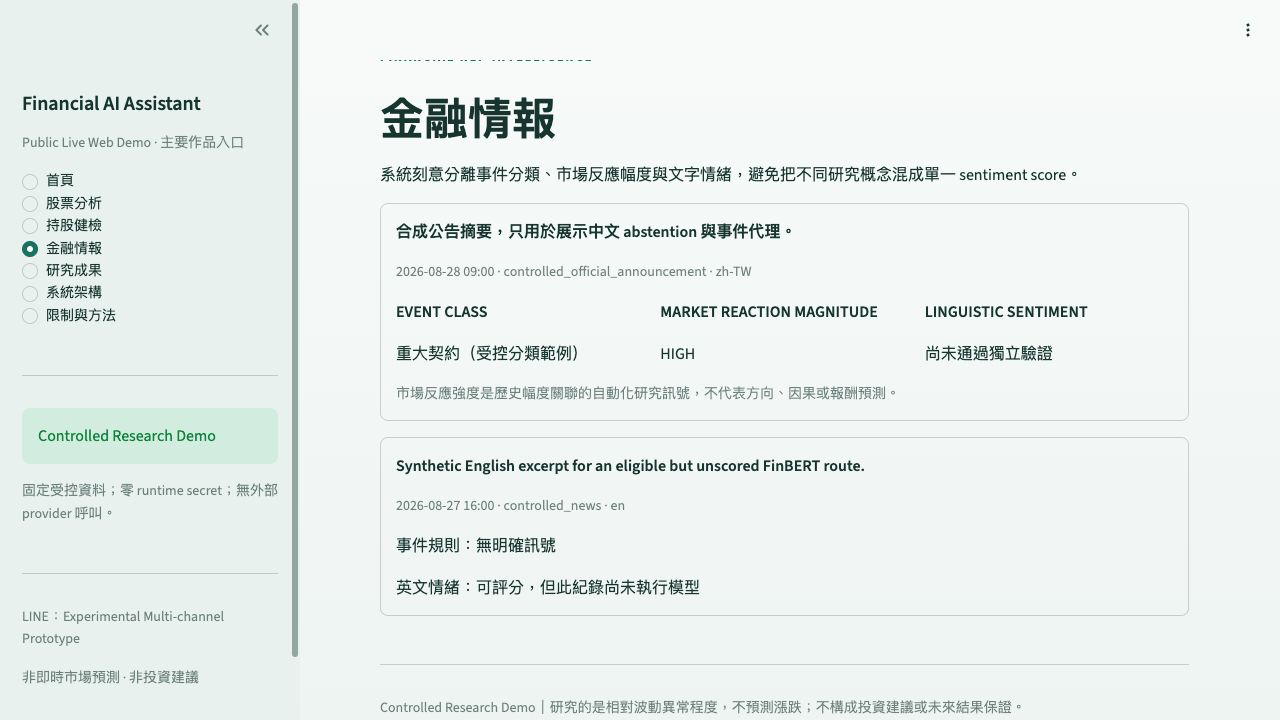
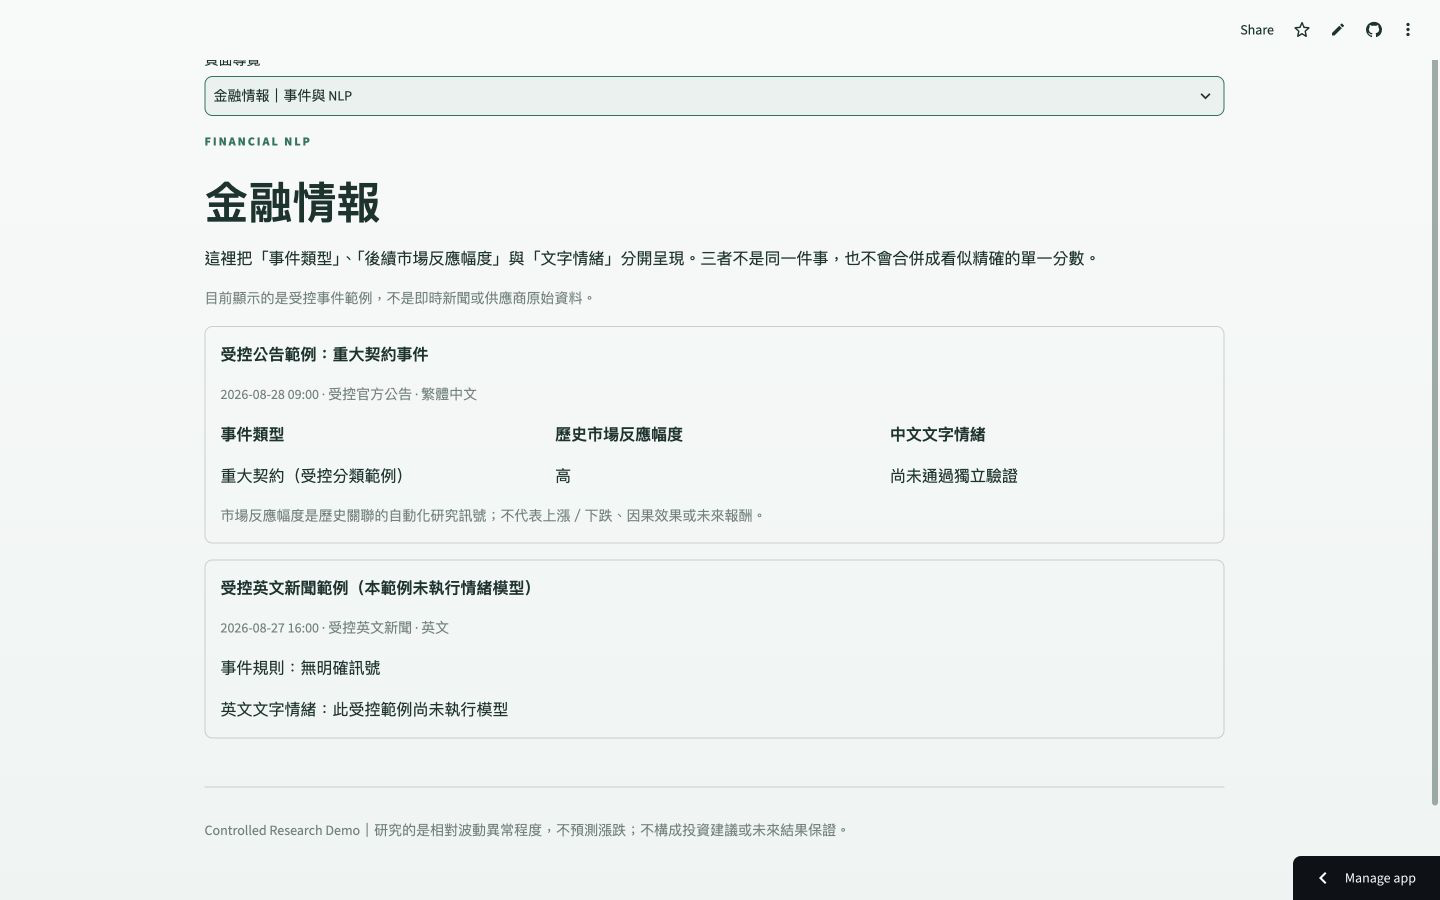
Document web demo production verification

diff --git a/docs/live_demo_blind_product_audit.md b/docs/live_demo_blind_product_audit.md
@@ -328,3 +328,75 @@ Remaining P2 polish intentionally deferred:
 - optional shareable deep links for individual pages;
 - optional additional public-safe controlled fixtures, but only if derived without fabricating
   ticker-specific evidence.
+
+## Production deployment verification
+
+Verification date: 2026-08-31
+
+Production URL: <https://mieuxwei-f6rbk4pvtvxs3rsh3k2zmn.streamlit.app/>
+
+Deployed revision: `313b4c7cd07e9347086cae3793a087182020fe2e`
+
+The revision was confirmed on the GitHub `main` branch and detected by Streamlit Community Cloud.
+The existing process initially continued serving the previous interface, so the app was explicitly
+rebooted through the Streamlit management panel after user approval. A fresh browser session then
+loaded the revised Web-first interface.
+
+### First 30-second test — PRODUCTION AFTER
+
+| Question | Result | Production evidence |
+|---|---|---|
+| 這是什麼？ | PASS | Product name and Taiwan-equity research-assistant description are above the fold |
+| 解決什麼問題？ | PASS | Relative volatility-surprise forecasting and financial-event intelligence are stated directly |
+| 最核心 AI 功能？ | PASS | Plain-language volatility ranking is identified as the research core |
+| 可以操作什麼？ | PASS | Stock analysis, Demo portfolio health and financial intelligence are named immediately |
+| 第一個應按哪裡？ | PASS | “開始股票分析” is the primary CTA |
+| 不是投資建議？ | PASS | The first screen states non-live, no-direction and non-investment-advice boundaries |
+| 是研究作品而非交易產品？ | PASS | Controlled Research Demo status is visible without opening details |
+
+### Functional smoke — production
+
+| Surface/interaction | Result |
+|---|---|
+| Landing, main-content navigation and all three CTAs | PASS |
+| 2330 controlled stock analysis | PASS |
+| 0050 unsupported selection fails closed without borrowed or fabricated output | PASS |
+| Score, percentile and communication-band explanation | PASS |
+| Portfolio empty state | PASS |
+| Load two-holding example | PASS |
+| Add a holding through the form | PASS |
+| Update holding shares and average cost | PASS |
+| Delete and clear holdings | PASS |
+| Financial intelligence concept separation | PASS |
+| Research metrics, model comparison and ranking visual | PASS |
+| Architecture, experimental LINE path and forward-validation path | PASS |
+| Current-market blocker and Chinese sentiment limitation | PASS |
+| Sanitized UI with no browser console error/warning | PASS |
+
+### Responsive and operational checks
+
+- Desktop viewport (`1440 × 900`): PASS.
+- Narrow/mobile viewport (`390 × 844`): all seven pages remained usable with no horizontal
+  overflow, hidden sidebar dependency or traceback.
+- A bounded reboot/cold-start check returned the revised app in approximately 20 seconds,
+  including dependency preparation and a fresh browser connection.
+- Public request handling remained fixture-only. No Yahoo, FinMind, TWMD, Gemini, Perplexity,
+  OpenAI, GDELT, LINE or Google Sheets provider request was introduced.
+- Current-market F7 inference remains disabled; the documented readiness evidence remains `6/9`
+  serving gates and `5/23` exact features.
+- Chinese linguistic sentiment remains explicitly unvalidated and no P/N/N probability is shown.
+- Market-reaction magnitude remains a historical association signal, not direction or causality.
+
+### Production screenshots
+
+The public-safe assets under `docs/assets/public_web_demo_*.png` were refreshed from the verified
+production deployment for the landing page, stock analysis, portfolio health, financial
+intelligence, research results, architecture and mobile landing view.
+
+### Production verdict
+
+**PORTFOLIO_READY — production deployment verified.**
+
+No P0 issue was found in the deployed revision. The production interface and the reviewed source
+now match. This verification does not start Final Release Audit, create a release tag, freeze the
+project, enable current-market inference or alter Track A/Track B research artifacts.
